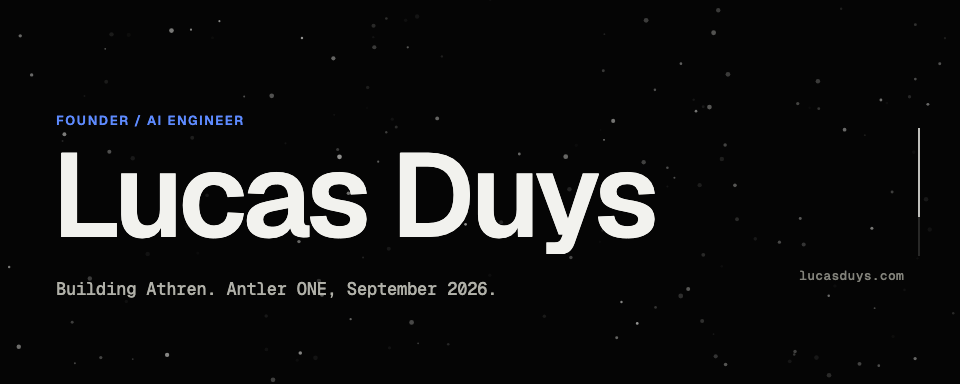
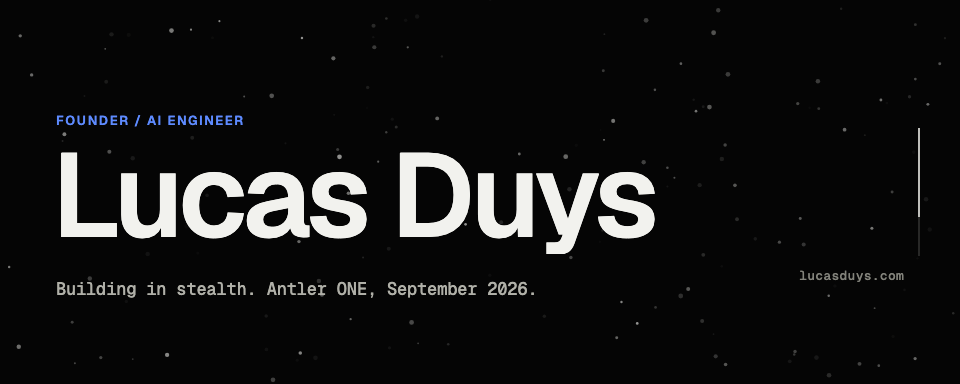
Keep the company in stealth on the profile
The banner line and the README now say only that a new company is being
built, in the Antler ONE September 2026 cohort. Stacklink and Forge stay.

Changed region(s): [[0.1562, 0.7188, 0.5625, 0.7812]]

diff --git a/animation/src/Composition.tsx b/animation/src/Composition.tsx
@@ -135,7 +135,7 @@ export const ProfileIntro: React.FC = () => {
           transform: `translateY(${(1 - line) * 10}px)`,
         }}
       >
-        Building Athren. Antler ONE, September 2026.
+        Building in stealth. Antler ONE, September 2026.
       </div>
 
       <div

diff --git a/README.md b/README.md
@@ -2,14 +2,14 @@
   <a href="https://lucasduys.com">
     <picture>
       <source media="(prefers-reduced-motion: reduce)" srcset="./assets/profile-intro-static.png">
-      <img src="./assets/profile-intro.gif" alt="Lucas Duys. Founder of Athren, AI engineer. Antler ONE, September 2026." width="100%">
+      <img src="./assets/profile-intro.gif" alt="Lucas Duys. Founder and AI engineer. Antler ONE, September 2026." width="100%">
     </picture>
   </a>
 </p>
 
-### Now: [Athren](https://athren.nl)
+### Now
 
-Software that does the work, then waits for your yes. Athren reads a product's funnel, finds the step where the most people fall out, writes the experiment, builds the variant inside the team's own codebase, and ships it once someone approves it. Twenty experiments a month, nothing live without a yes. Building it in the Antler ONE September 2026 cohort.
+Building a new company, in stealth for now, in the Antler ONE September 2026 cohort.
 
 ### Before: [Stacklink](https://stacklink.nl)
 
